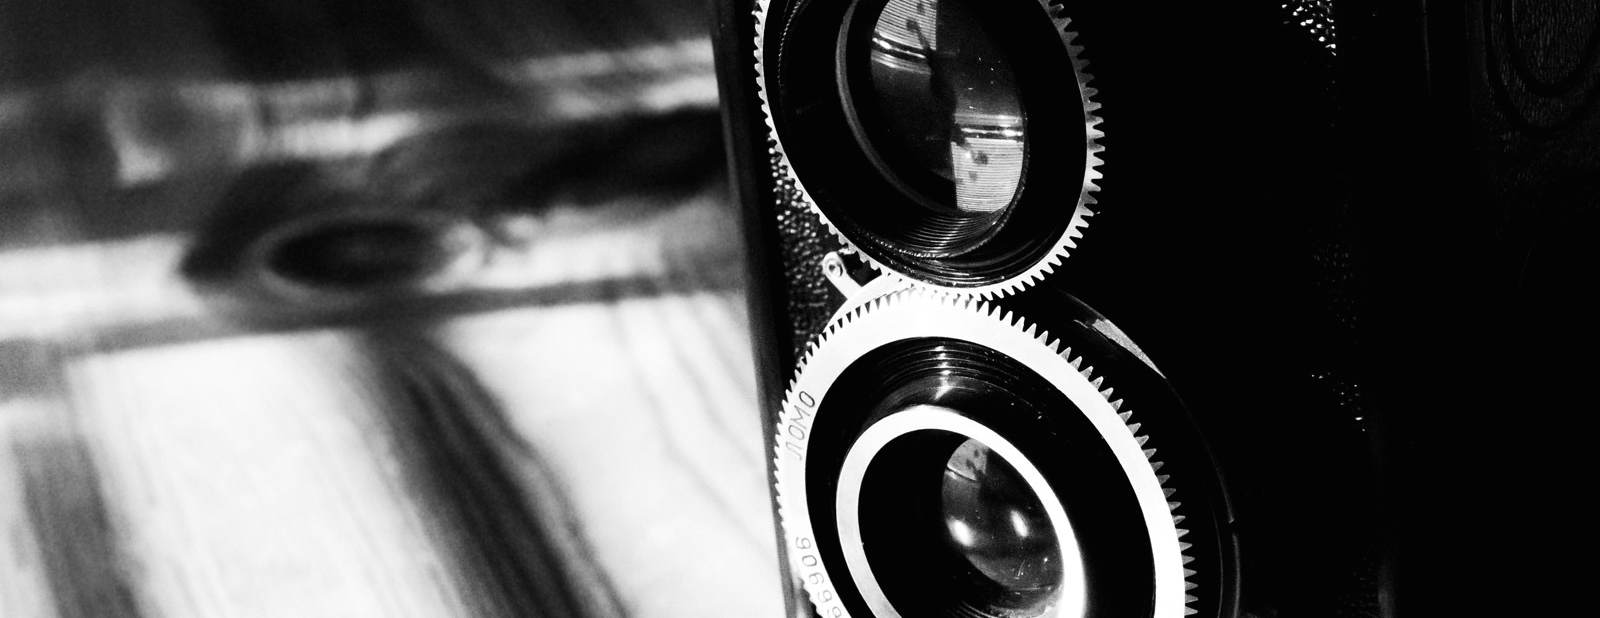
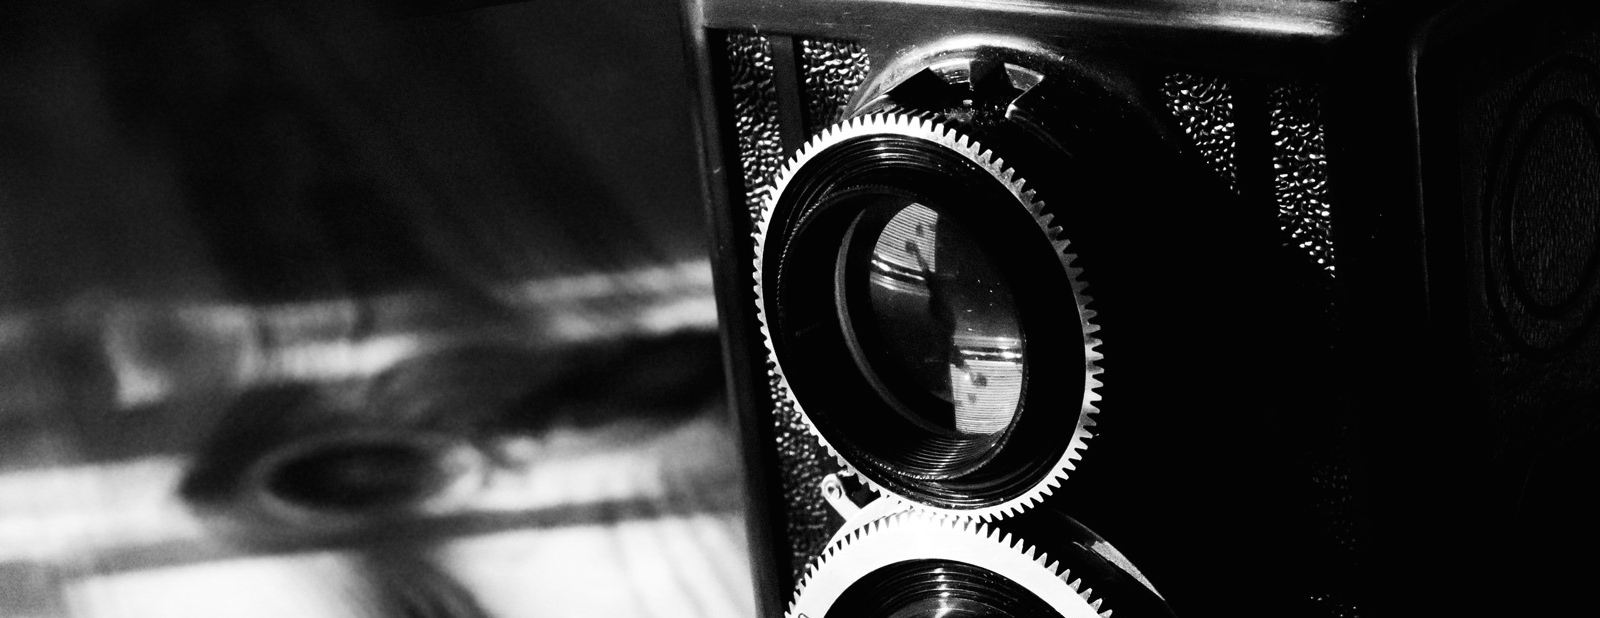
Blog update

diff --git a/_posts/2014-04-21-workshop-cam.md b/_posts/2014-04-21-workshop-cam.md
@@ -5,7 +5,7 @@ description: "Hilfestellung für Anfänger & Einsteiger"
 category: blog
 tags: []
 image:
-  feature: cam.jpg
+  feature: cam2.jpg
 comments: true
 share: false
 published: true
